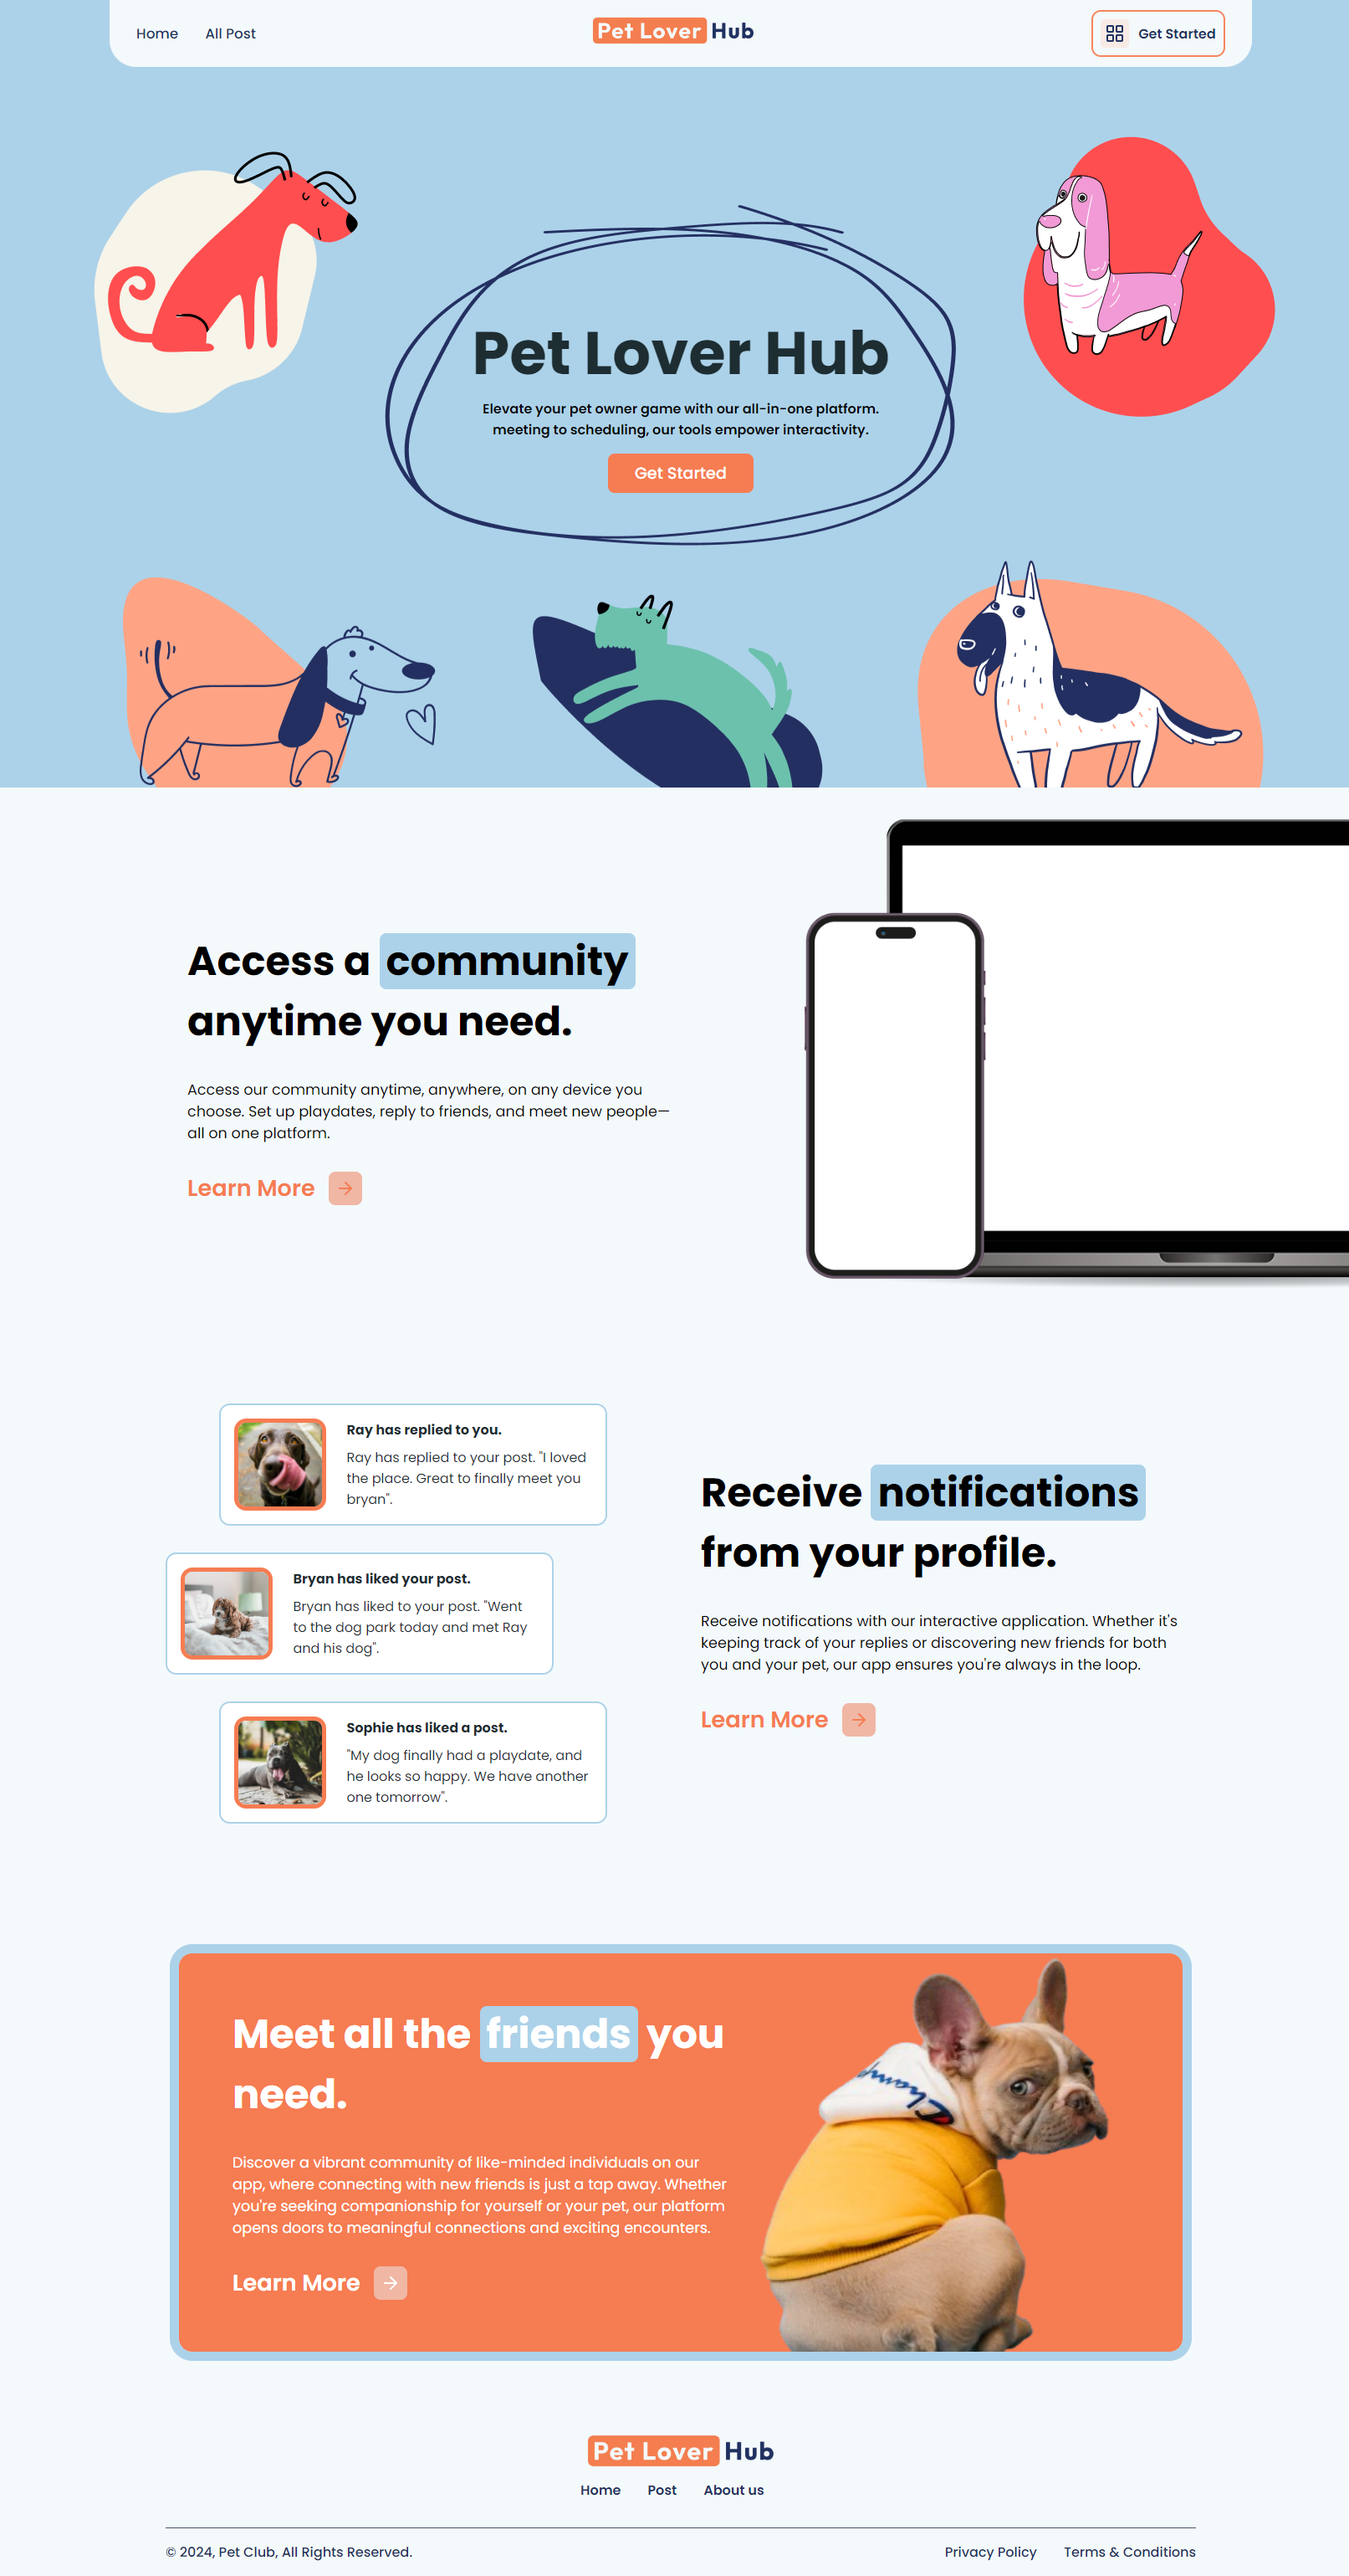
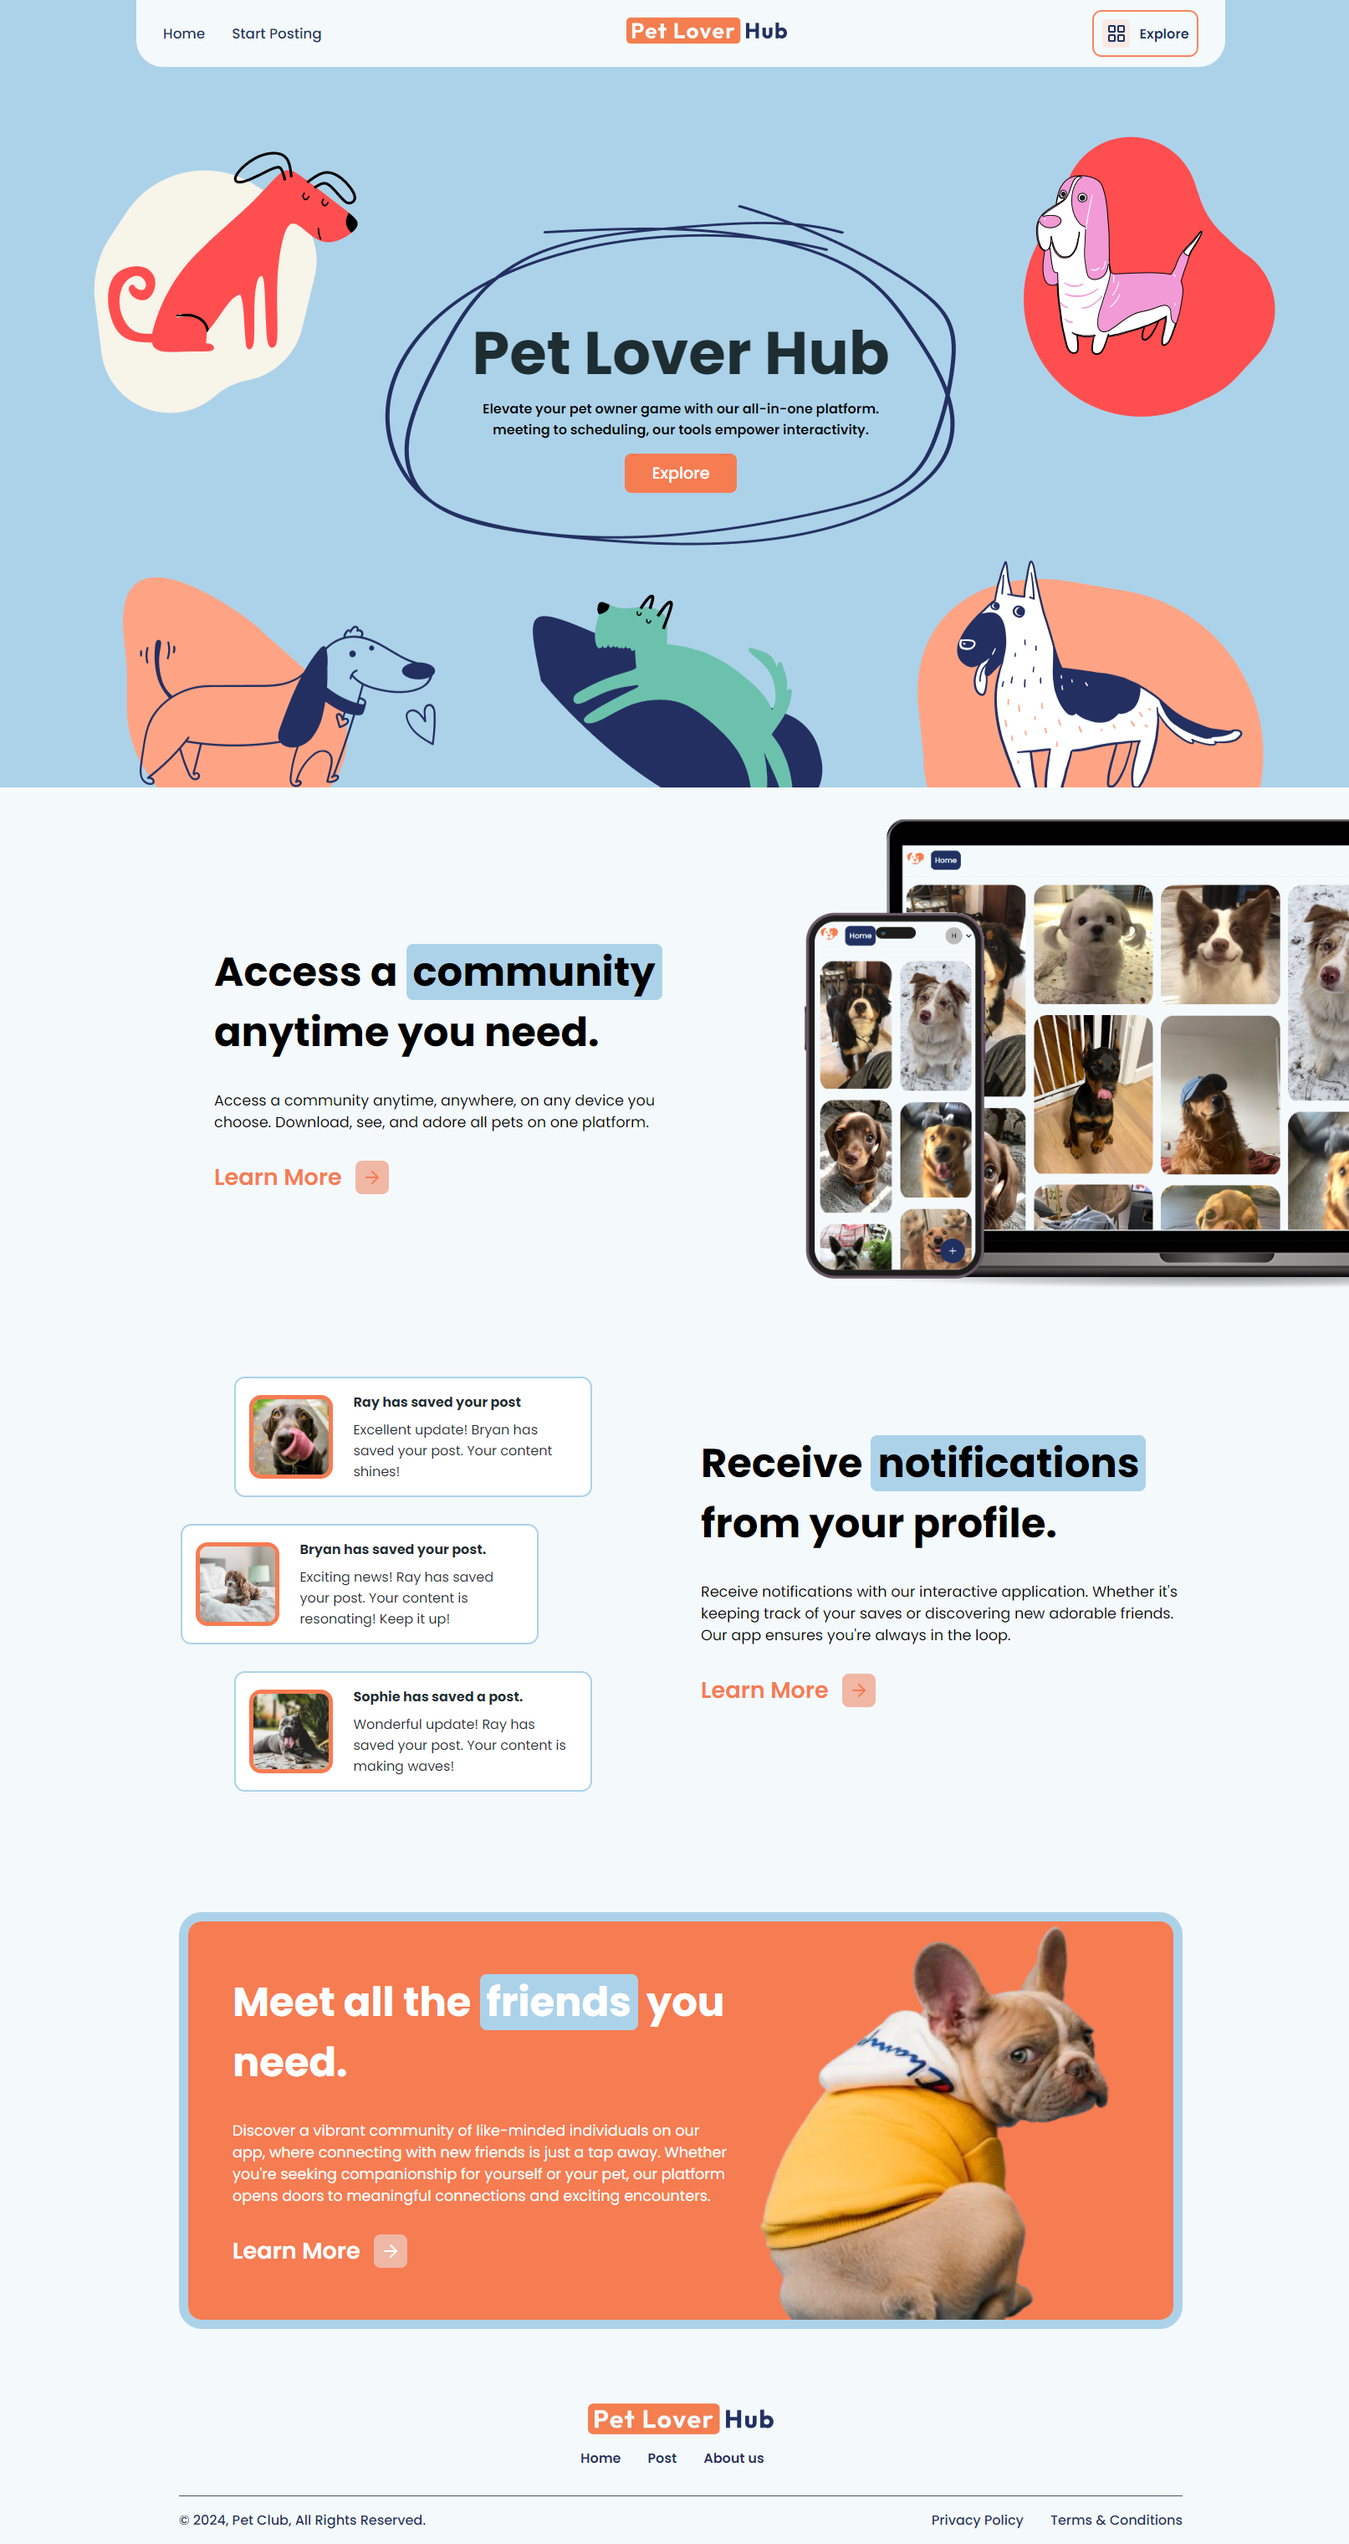
added new home image and firebase file uploading

diff --git a/src/pages/home/Top.jsx b/src/pages/home/Top.jsx
@@ -1,13 +1,7 @@
 import React, { useEffect, useState } from "react";
 import small from "../images/logosmall.png";
 import "./styles/Top.css";
-import {
-  ChevronDown,
-  CircleAlert,
-  CircleCheckBig,
-  Plus,
-  X,
-} from "lucide-react";
+import { CircleAlert, CircleCheckBig, Plus, X } from "lucide-react";
 import {
   faAngleDown,
   faAngleUp,
@@ -16,22 +10,55 @@ import {
 import { faUser } from "@fortawesome/free-regular-svg-icons";
 import { FontAwesomeIcon } from "@fortawesome/react-fontawesome";
 import { Link, useNavigate } from "react-router-dom";
-import { auth } from "../firebase/firebase";
-function Top() {
+import { auth, database, storage } from "../firebase/firebase";
+import { ref, set, push } from "firebase/database";
+import { ref as storageRef, uploadBytes } from "firebase/storage";
+
+function Top({ popup }) {
+  
   const navigate = useNavigate();
   const [dropdown, setDropDown] = useState(false);
   const [uploadFile, setUploadFile] = useState(null);
 
-  useEffect(() => {
-    if (dropdown === true) {
-      document.querySelector(".dropdown").style.display = "block";
-    } else {
-      document.querySelector(".dropdown").style.display = "none";
-    }
-  }, [dropdown]);
-
   const isImage = (file) => {
-    return file.type.startsWith("image/");
+    const acceptedExtensions = ["jpg", "jpeg", "png", "gif"];
+    const fileName = file.name.toLowerCase();
+    const fileExtension = fileName.split(".").pop();
+    return acceptedExtensions.includes(fileExtension);
+  };
+
+  const handleSubmit = async (event) => {
+    event.preventDefault();
+    try {
+      if (uploadFile && isImage(uploadFile)) {
+        const fileData = {
+          user: auth.currentUser.uid,
+        };
+        const newFileKey = push(ref(database, "files")).key;
+        await set(ref(database, `files/${newFileKey}`), fileData);
+        const storageRefPath = storageRef(storage, `files/${newFileKey}`);
+        await uploadBytes(storageRefPath, uploadFile);
+        localStorage.setItem("hasSubmittedBefore", "true");
+        popup("popup__success");
+        event.target.reset();
+        closeUpdate();
+      } else {
+        popup("popup__fail");
+        console.error("Error: Please upload an image file.");
+      }
+    } catch (error) {
+      console.log("Error uploading data:", error);
+    }
+  };
+
+  const closeUpdate = () => {
+    document.querySelector(".upload__modal").style.display = "none";
+    document.querySelector(".upload__dark").style.display = "none";
+  };
+
+  const openUpdate = () => {
+    document.querySelector(".upload__modal").style.display = "block";
+    document.querySelector(".upload__dark").style.display = "block";
   };
 
   const handleSignOut = () => {
@@ -46,19 +73,13 @@ function Top() {
       });
   };
 
-  const handleSubmit = async (event) => {
-    event.preventDefault();
-  };
-
-  const closeUpdate = () => {
-    document.querySelector(".upload__modal").style.display = "none";
-    document.querySelector(".upload__dark").style.display = "none";
-  };
-
-  const openUpdate = () => {
-    document.querySelector(".upload__modal").style.display = "block";
-    document.querySelector(".upload__dark").style.display = "block";
-  };
+  useEffect(() => {
+    if (dropdown === true) {
+      document.querySelector(".dropdown").style.display = "block";
+    } else {
+      document.querySelector(".dropdown").style.display = "none";
+    }
+  }, [dropdown]);
 
   return (
     <>
@@ -107,9 +128,10 @@ function Top() {
             <input
               type="file"
               placeholder="Title"
-              className="upload__input "
+              className="upload__input"
               id="file"
               required
+              onChange={(event) => setUploadFile(event.target.files[0])}
             />
           </div>
           <button className="upload__button" type="submit">

diff --git a/src/pages/home/Grid.jsx b/src/pages/home/Grid.jsx
@@ -1,39 +1,48 @@
-import React from "react";
+import React, { useEffect, useState } from "react";
+import { ref, listAll, getDownloadURL } from "firebase/storage";
+import { storage } from "../firebase/firebase";
 import "./styles/Grid.css";
-import one from "../images/1.jpg";
-import two from "../images/2.jpg";
-import three from "../images/3.jpg";
-import four from "../images/4.jpg";
-import five from "../images/5.jpg";
-import six from "../images/6.jpg";
-import seven from "../images/7.jpg";
-import eight from "../images/8.jpg";
-import nine from "../images/9.jpg";
-import ten from "../images/10.jpg";
-import eleven from "../images/11.jpg";
-import twelve from "../images/12.jpg";
-import thrit from "../images/13.jpg";
-import fort from "../images/14.jpg";
-import fifth from "../images/15.jpg";
-import sixteth from "../images/16.jpg";
-import seventeth from "../images/17.jpg";
-import ninetenth from "../images/19.jpg";
-import twenty from "../images/20.jpg";
 
 function Grid() {
-  const images = [
-    one, two, three, four, five, six, seven, eight, nine, ten,
-    eleven, twelve, thrit, fort, fifth, sixteth, seventeth,
-    ninetenth, twenty
-  ];
+  const [imageUrls, setImageUrls] = useState([]);
+
+  useEffect(() => {
+    const fetchImages = async () => {
+      try {
+        const filesRef = ref(storage, "files");
+        const fileList = await listAll(filesRef);
+        const urls = await Promise.all(
+          fileList.items.map(async (item) => {
+            const url = await getDownloadURL(item);
+            return url;
+          })
+        );
+        setImageUrls(urls);
+      } catch (error) {
+        console.error("Error fetching images:", error);
+      }
+    };
+
+    fetchImages();
+  }, []);
+
+  const handleSaveImage = (url) => {
+    console.log(url)
+    window.open(url, "_blank");
+  };
 
   return (
     <section id="grid">
       <div className="grid__container">
-        {images.map((image, index) => (
+        {imageUrls.map((url, index) => (
           <div className="grid__box" key={index}>
-            <button className="grid__button">Save</button>
-            <img src={image} alt={`Post ${index + 1}`} />
+            <button
+              className="grid__button"
+              onClick={() => handleSaveImage(url)}
+            >
+              Save
+            </button>
+            <img src={url} alt={`Image ${index}`} />
           </div>
         ))}
       </div>

diff --git a/src/pages/home/styles/Top.css b/src/pages/home/styles/Top.css
@@ -76,7 +76,7 @@
   padding: 1rem;
   position: absolute;
   width: 13.375rem;
-  z-index: 100;
+  z-index: 4;
   @media (max-width: 500px) {
     margin-right: 1rem;
   }
@@ -108,12 +108,12 @@
   top: 0;
   background-color: #000000;
   opacity: 0.9;
-  z-index: 1;
+  z-index: 5;
   display: none;
 }
 .upload__modal {
   display: none;
-  z-index: 2;
+  z-index: 6;
   height: 100%;
   width: 100%;
   max-width: 50rem;

diff --git a/src/pages/home/Home.jsx b/src/pages/home/Home.jsx
@@ -2,10 +2,10 @@ import React from 'react'
 import Top from './Top'
 import Grid from './Grid'
 
-function Home  () {
+function Home  ({popup}) {
   return (
     <>
-    <Top />
+    <Top popup={popup}/>
     <Grid />
     </>
   )
